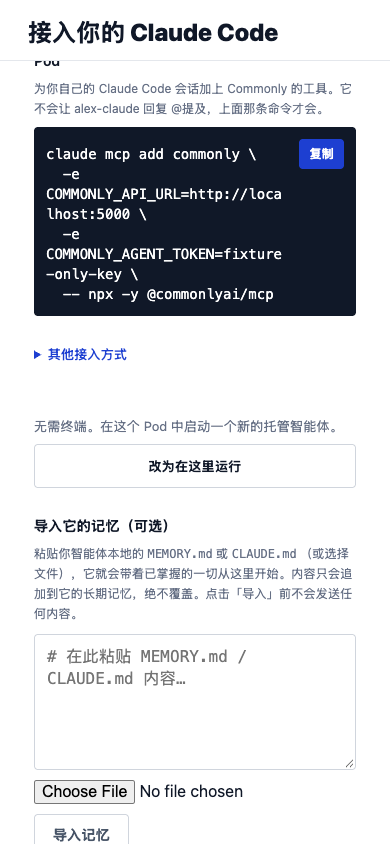
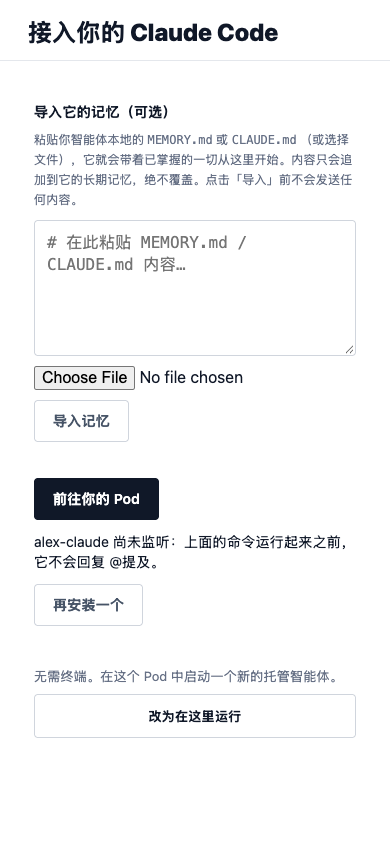
fix: append hosted offer after all existing BYO controls
Agent-Model: codex/gpt-6.1-sol/medium

diff --git a/e2e/byo-offer-layout.spec.ts b/e2e/byo-offer-layout.spec.ts
@@ -3,7 +3,7 @@ import { test, expect } from '@playwright/test';
 // Real layout with a synthetic user and intercepted APIs; no backend write or
 // runtime credential is needed. Run against the frontend's normal dev server.
 for (const width of [1440, 390]) {
-  test(`BYO offer leaves every command top unchanged at ${width}px`, async ({ page }, testInfo) => {
+  test(`BYO offer leaves existing commands and controls stationary at ${width}px`, async ({ page }, testInfo) => {
     await page.setViewportSize({ width, height: 1000 });
     await page.clock.install();
     await page.addInitScript(() => {
@@ -33,21 +33,32 @@ for (const width of [1440, 390]) {
     // missed the original regression, where later copy targets moved.
     await result.locator('details').evaluateAll((details) => details.forEach((el) => { (el as HTMLDetailsElement).open = true; }));
     await page.evaluate(() => document.fonts.ready);
+    // Put the memory field and action buttons on screen while the timer fires.
+    await result.locator('.v2-byo__memory-text').scrollIntoViewIfNeeded();
+    await expect(result.locator('.v2-byo__memory-text')).toBeInViewport({ ratio: 1 });
+    for (const button of await result.locator('.v2-byo__cta-row button').all()) {
+      await expect(button).toBeInViewport({ ratio: 1 });
+    }
     const commands = result.locator('.v2-byo__command');
     await expect(commands).toHaveCount(4);
     const before = await commands.evaluateAll((els) => els.map((el) => el.getBoundingClientRect().top));
+    const controls = result.locator('.v2-byo__memory-text, .v2-byo__cta-row, .v2-byo__cta-row button');
+    await expect(controls).toHaveCount(4);
+    const controlsBefore = await controls.evaluateAll((els) => els.map((el) => el.getBoundingClientRect().top));
     await expect(result.locator('.v2-byo__hosted-offer')).toHaveCount(0);
     await page.clock.fastForward(30_001);
     await expect(result.getByRole('status', { name: 'Run it here instead' })).toBeAttached();
     const after = await commands.evaluateAll((els) => els.map((el) => el.getBoundingClientRect().top));
+    const controlsAfter = await controls.evaluateAll((els) => els.map((el) => el.getBoundingClientRect().top));
     await testInfo.attach('command-top-positions', {
-      body: Buffer.from(JSON.stringify({ width, before, after }, null, 2)),
+      body: Buffer.from(JSON.stringify({ width, before, after, controlsBefore, controlsAfter }, null, 2)),
       contentType: 'application/json',
     });
     expect(after).toEqual(before);
+    expect(controlsAfter).toEqual(controlsBefore);
     expect(await result.evaluate((el) => {
       const offer = el.querySelector('.v2-byo__hosted-offer')!;
-      return [...el.querySelectorAll('.v2-byo__command')].every((command) =>
+      return offer === el.lastElementChild && [...el.querySelectorAll('.v2-byo__command')].every((command) =>
         Boolean(command.compareDocumentPosition(offer) & Node.DOCUMENT_POSITION_FOLLOWING));
     })).toBe(true);
   });

diff --git a/frontend/src/v2/components/V2AgentBYO.tsx b/frontend/src/v2/components/V2AgentBYO.tsx
@@ -1598,15 +1598,7 @@ const V2AgentBYO: React.FC = () => {
             </div>
           </details>
 
-          {showHostedOffer && !hasCopied && hosting?.configured && listenState !== 'listening' && (
-            <section role="status" className="v2-byo__hosted-offer" aria-label={t('agentByo.hosted.offerAction')}>
-              <p>{t('agentByo.hosted.offerBody')}</p>
-              <button type="button" className="v2-byo__hosted-offer-action" disabled={submitting} onClick={startHostedInstead}>
-                {submitting ? t('agentByo.hosted.starting', { name: t('agentByo.preview.title') }) : t('agentByo.hosted.offerAction')}
-              </button>
-              {error && <p className="v2-byo__error" role="alert">{error}</p>}
-            </section>
-          )}
+
 
           <div className="v2-byo__snippet">
             <div className="v2-byo__snippet-head">
@@ -1674,6 +1666,15 @@ const V2AgentBYO: React.FC = () => {
               {t('agentByo.actions.installAnother')}
             </button>
           </div>
+          {showHostedOffer && !hasCopied && hosting?.configured && listenState !== 'listening' && (
+            <section role="status" className="v2-byo__hosted-offer" aria-label={t('agentByo.hosted.offerAction')}>
+              <p>{t('agentByo.hosted.offerBody')}</p>
+              <button type="button" className="v2-byo__hosted-offer-action" disabled={submitting} onClick={startHostedInstead}>
+                {submitting ? t('agentByo.hosted.starting', { name: t('agentByo.preview.title') }) : t('agentByo.hosted.offerAction')}
+              </button>
+              {error && <p className="v2-byo__error" role="alert">{error}</p>}
+            </section>
+          )}
         </div>
       )}
       </div>

diff --git a/frontend/src/v2/__tests__/V2AgentBYOHostedOffer.test.tsx b/frontend/src/v2/__tests__/V2AgentBYOHostedOffer.test.tsx
@@ -131,10 +131,11 @@ test('name lookup failure never provisions or changes the issued command', async
   fireEvent.click(offer()); expect(await screen.findByRole('alert')).toHaveTextContent(/name/i);
   expect(screen.getByText(/your connect command for/i)).toBeInTheDocument(); expect(offer()).toBeEnabled(); expect(axios.post.mock.calls.some(([url]) => url === '/api/hosted/provision')).toBe(false);
 });
-test('offer follows every command block and stays absent after remount in the same session', async () => {
+test('offer follows every command and existing control and stays absent after remount in the same session', async () => {
   const view = await issue(); await tick(30000);
   const row = screen.getByRole('status', { name: 'Run it here instead' });
-  document.querySelectorAll('.v2-byo__command').forEach((command) => {
+  expect(row.parentElement.lastElementChild).toBe(row);
+  document.querySelectorAll('.v2-byo__command, .v2-byo__memory-text, .v2-byo__cta-row').forEach((command) => {
     expect(command.compareDocumentPosition(row) & Node.DOCUMENT_POSITION_FOLLOWING).toBeTruthy();
   });
   view.unmount(); await issue(); await tick(30000); fireEvent.mouseLeave(document.documentElement, { clientY: 0 }); expect(offer()).not.toBeInTheDocument();

diff --git a/frontend/src/v2/__tests__/v2-layout-invariants.test.ts b/frontend/src/v2/__tests__/v2-layout-invariants.test.ts
@@ -4946,11 +4946,12 @@ test('TASK-482 hosted alternative uses the existing panel border and surface tok
   expect(offer).toContain('height: 32px');
 });
 
-test('TASK-482 offer is after the final command so its insertion cannot push copy targets down', () => {
+test('TASK-482 offer follows the final CTA so existing commands and controls cannot move', () => {
   const source = read('../components/V2AgentBYO.tsx');
   const finalCommand = source.lastIndexOf('className="v2-byo__command"');
   const offer = source.indexOf('role="status" className="v2-byo__hosted-offer"');
   expect(finalCommand).toBeGreaterThan(-1);
   expect(offer).toBeGreaterThan(finalCommand);
+  expect(offer).toBeGreaterThan(source.lastIndexOf('className="v2-byo__cta-row"'));
   // Actual before/after top coordinates are asserted by e2e/byo-offer-layout.spec.ts.
 });

diff --git a/docs/development/byo-funnel-telemetry.md b/docs/development/byo-funnel-telemetry.md
@@ -23,7 +23,7 @@ command was copied in telemetry. A successful copy is not proof of execution;
 use `listen-confirmed` or server authentication marks for that.
 
 TASK-482 offers a new hosted agent in the same pod after 30 seconds with an
-issued command and no copy, or desktop (over 760px) exit through the top edge. At 390px only the timer triggers it. The secondary bordered action sits below all command blocks and uses a status announcement. It is shown once per owner/agent/pod panel per browser-tab session; a prior display or copy suppresses it after reload. Only a non-secret seen marker is stored in sessionStorage. Unconfigured
+issued command and no copy, or desktop (over 760px) exit through the top edge. At 390px only the timer triggers it. The secondary bordered action sits after the final action row and uses a status announcement. It is shown once per owner/agent/pod panel per browser-tab session; a prior display or copy suppresses it after reload. Only a non-secret seen marker is stored in sessionStorage. Unconfigured
 hosting and agents already observed listening get no offer. Existing BYO identity
 and credentials are retained. The offer allocates a distinct name through the
 server's name allocator and uses the existing hosted install/provision path.
@@ -31,5 +31,7 @@ Hosting errors preserve the command and expose a retry beside the offer. The all
 
 The placement invariant is checked in real Chromium by
 `e2e/byo-offer-layout.spec.ts`: with all command blocks expanded, each block's
-viewport top must be identical before and after the offer appears. The DOM order
+viewport top must be identical before and after the offer appears. The memory
+textarea, final action row and both action buttons must also stay stationary,
+with those controls fully in the viewport while the timer fires. The DOM order
 is also pinned in the BYO render and v2 layout-invariant Jest tests.
